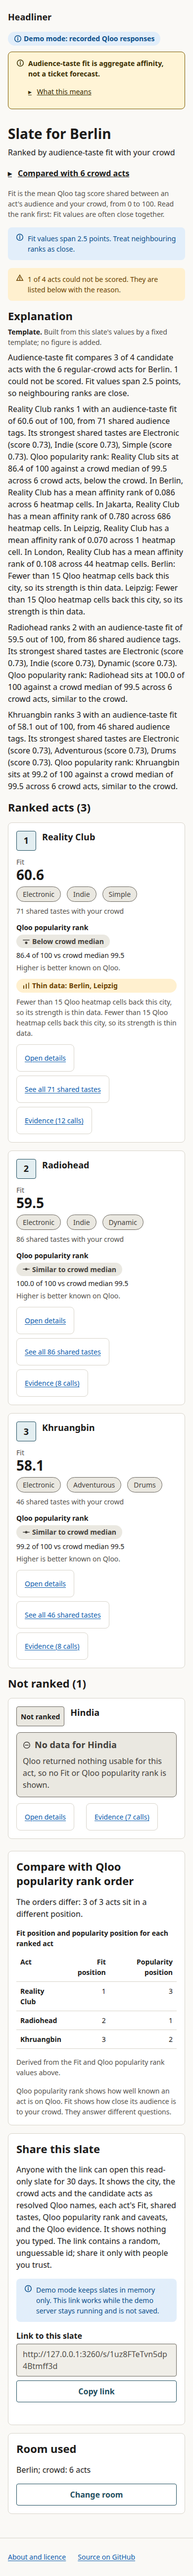
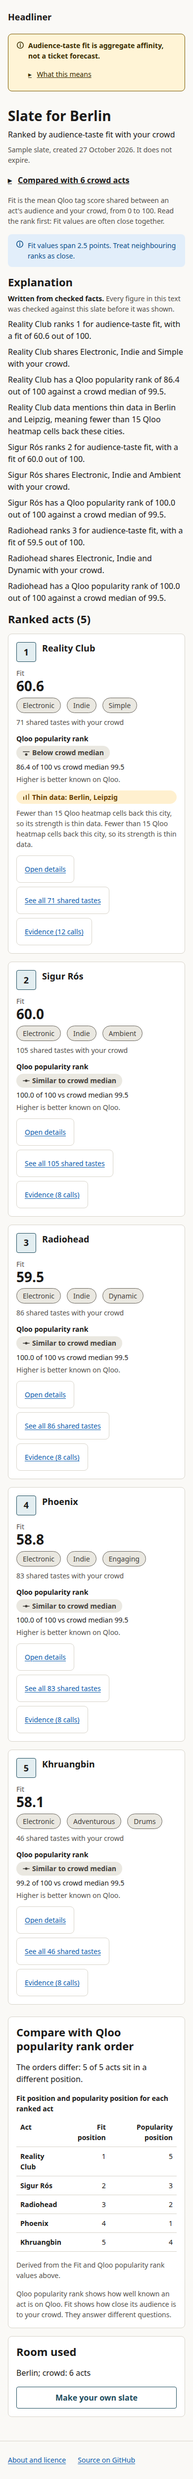
chore(docs): production screenshots for README and Devpost (#92)
* chore(docs): recapture README and Devpost screenshots from production

* docs: state the screenshot sources truthfully (production, except empty state)

Changed region(s): [[0.0308, 0.0, 0.9538, 0.9992], [0.6769, 0.562, 0.8308, 0.5933]]

diff --git a/README.md b/README.md
@@ -78,7 +78,7 @@ Live: <https://headliner-ai.vercel.app>. Two pre-warmed sample rooms open straig
 - <https://headliner-ai.vercel.app/s/sample-berlin-electronic> (Berlin, 6 crowd acts, 5 candidates)
 - <https://headliner-ai.vercel.app/s/sample-leipzig-indie> (Leipzig, 4 crowd acts, 5 candidates)
 
-Or type your own room, or describe it in one sentence. Screenshots below are from `DEMO_MODE=fixtures` (recorded Qloo responses); the Berlin room is the recorded one.
+Or type your own room, or describe it in one sentence. Screenshots below were captured on 28 Oct 2026 from the production site (live mode, light mode): the room setup page, the match confirmation (the sample Berlin room plus the typed name "Bjork"), and the stored sample Berlin slate with its Reality Club act detail and cities section. The empty-state screenshots are the exception: they come from a `DEMO_MODE=fixtures` build (they show the "Demo mode: recorded Qloo responses" badge) because no no-data act is stored on production.
 
 **Room setup** ([1280 px](docs/screenshots/room-setup-1280.png), [390 px](docs/screenshots/room-setup-390.png))
 
@@ -90,17 +90,17 @@ Or type your own room, or describe it in one sentence. Screenshots below are fro
 
 **Slate.** Ranked acts with Fit, shared tastes, Qloo popularity rank and caveats, beside the Qloo popularity order ([768 px](docs/screenshots/slate-768.png), [390 px](docs/screenshots/slate-390.png), [360 px](docs/screenshots/slate-360.png)).
 
-![Slate for Berlin: three ranked acts, one not ranked, the explanation, the comparison with Qloo popularity rank order and the share link](docs/screenshots/slate-1280.png)
+![Slate for the sample Berlin room: five ranked acts, the explanation, and the comparison with Qloo popularity rank order](docs/screenshots/slate-1280.png)
 
 **Act detail with the evidence trail** ([768 px](docs/screenshots/act-detail-768.png), [390 px](docs/screenshots/act-detail-390.png), [360 px](docs/screenshots/act-detail-360.png)).
 
 ![Act detail for Reality Club: Fit, shared tastes, caveats, cities compared and the Qloo evidence rows](docs/screenshots/act-detail-1280.png)
 
-**Thin-data flag.** Cities with fewer than 15 heatmap cells are flagged and grouped apart; a city with none gets its own state ([390 px](docs/screenshots/thin-data-390.png)).
+**Thin-data flag.** Cities with fewer than 15 heatmap cells are flagged and grouped apart; the act detail shows it for each city ([390 px](docs/screenshots/thin-data-390.png)).
 
-![Cities compared: Jakarta and London ranked by mean affinity rank with cell counts, Berlin and Leipzig flagged as thin data, Tromso with no heatmap data](docs/screenshots/thin-data-1280.png)
+![Cities compared for the sample Berlin room: Jakarta and London ranked by mean affinity rank with cell counts, Berlin and Leipzig flagged as thin data](docs/screenshots/thin-data-1280.png)
 
-**Empty state.** An act Qloo has no usable data for says so and shows no number ([390 px](docs/screenshots/empty-state-390.png)).
+**Empty state** (fixtures build, not production). An act Qloo has no usable data for says so and shows no number ([390 px](docs/screenshots/empty-state-390.png)).
 
 ![Act detail for Hindia: no Qloo data for this act, so no Fit or Qloo popularity rank is shown](docs/screenshots/empty-state-1280.png)
 

diff --git a/docs/devpost.md b/docs/devpost.md
@@ -94,9 +94,9 @@ No login, account, CAPTCHA or API key is needed.
 
 ## Gallery images (`docs/screenshots/`)
 
-Captured from the fixtures-mode build of the app (the "Demo mode: recorded Qloo responses" badge is visible), not from production.
+Captured on 28 Oct 2026 from the production site, https://headliner-ai.vercel.app (live mode, light mode): `/s/sample-berlin-electronic` for the slate, its Reality Club act page for the act detail, plus the room setup page and the match confirmation. No demo badge is shown. Only `empty-state-390.png` and `empty-state-1280.png` come from a `DEMO_MODE=fixtures` build (no no-data act is stored on production).
 
-1. `docs/screenshots/slate-1280.png`: the ranked slate with the popularity-order comparison, thin-data flags and the no-data act (desktop).
+1. `docs/screenshots/slate-1280.png`: the ranked slate with the popularity-order comparison and thin-data flags (desktop).
 2. `docs/screenshots/act-detail-1280.png`: act detail with shared tastes and the evidence trail (desktop).
 3. `docs/screenshots/slate-390.png`: the slate on a phone.
 4. `docs/screenshots/act-detail-390.png`: act detail on a phone.
